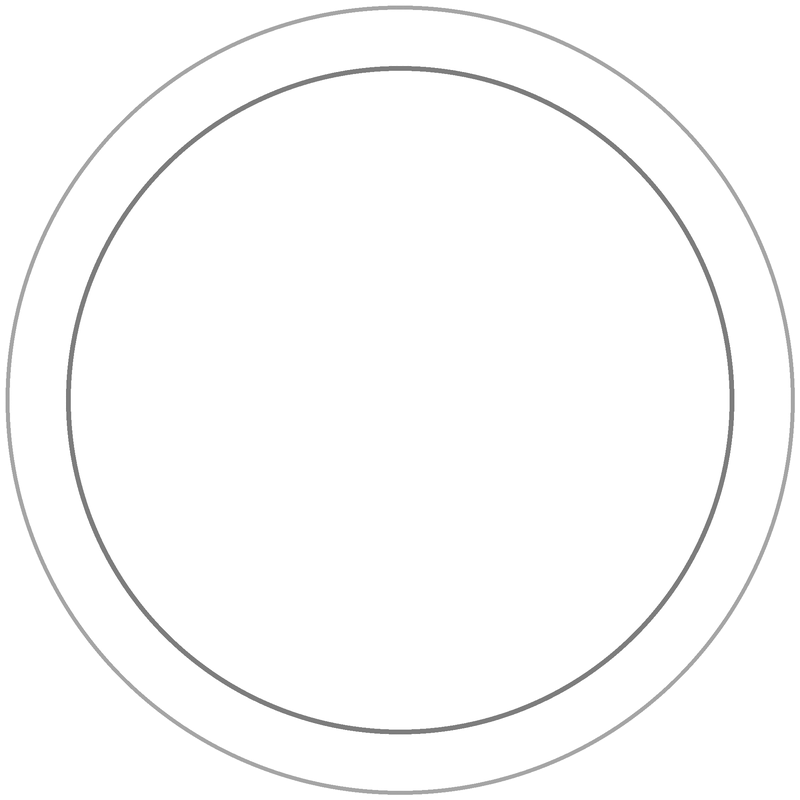
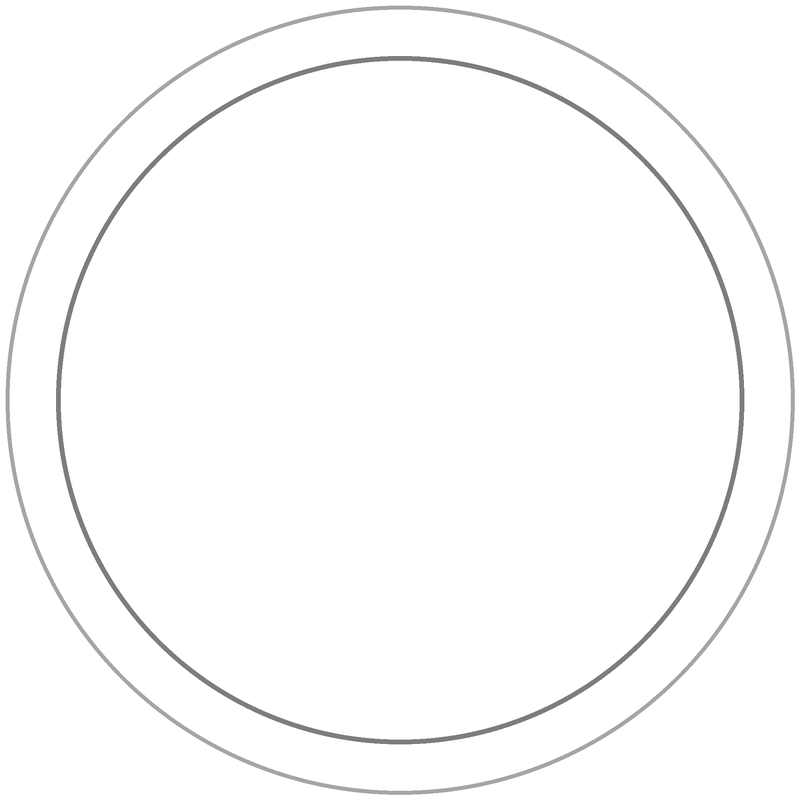
The dial's ring deeper and finer, as the boards have it

diff --git a/extensions/prayer-times/Sources/DialScene.swift b/extensions/prayer-times/Sources/DialScene.swift
@@ -35,8 +35,8 @@ enum DialScene {
         }
         let fajr = at(.fajr, 5), dhuhr = at(.dhuhr, 12), asr = at(.asr, 15), maghrib = at(.maghrib, 18), isha = at(.isha, 19.5)
         let stops: [(Double, (Int, Int, Int))] = [
-            (0, (34, 38, 112)), (fajr - 1, (36, 54, 142)), (fajr, (42, 92, 200)), ((fajr + dhuhr) / 2, (52, 112, 214)), (dhuhr - 0.8, (106, 128, 170)), (dhuhr, (222, 192, 118)), (dhuhr + 0.8, (116, 114, 128)),
-            (asr, (92, 96, 136)), ((asr + maghrib) / 2, (128, 104, 146)), (maghrib - 0.4, (206, 104, 172)), (maghrib, (222, 70, 164)), (isha, (112, 74, 200)), (isha + 2, (66, 52, 160)), (24, (34, 38, 112)),
+            (0, (28, 30, 96)), (fajr - 1, (28, 42, 128)), (fajr, (26, 74, 184)), ((fajr + dhuhr) / 2, (34, 96, 206)), (dhuhr - 0.8, (74, 96, 148)), (dhuhr, (214, 180, 100)), (dhuhr + 0.8, (88, 88, 104)),
+            (asr, (64, 68, 108)), ((asr + maghrib) / 2, (112, 78, 132)), (maghrib - 0.4, (196, 84, 162)), (maghrib, (226, 58, 160)), (isha, (98, 56, 196)), (isha + 2, (54, 40, 150)), (24, (28, 30, 96)),
         ]
         var last = stops[0]
         for next in stops.dropFirst() {
@@ -66,7 +66,7 @@ enum DialScene {
         let zone = day.zone
         let box = (cx * 2, cy * 2)
         var out: [Node] = []
-        let band = radius * 0.165
+        let band = radius * 0.14
         let inner = radius - band
         out.append(Node.image("art/dial-face-l.png", dark: "art/dial-face-d.png", fit: "fill").size(inner * 2, inner * 2).at(cx - inner, cy - inner))
         // The ring: the day's light, a little at a time.

diff --git a/extensions/prayer-times/Sources/PageOverview.swift b/extensions/prayer-times/Sources/PageOverview.swift
@@ -92,7 +92,7 @@ enum OverviewPage {
                 if let day = s.today {
                     Node.group { DialScene.nodes(cx: cx, cy: cy, radius: radius, labelRadius: radius + r.f(15) * 2.5, snapshot: s, day: day, focusAt: focusAt(s), big: true, label: r.f(15.5)) }.size(w, h)
                 }
-                Node.group { DialScene.middle(cx: cx, cy: cy, radius: radius * 0.835, focus: focus) }.size(w, h)
+                Node.group { DialScene.middle(cx: cx, cy: cy, radius: radius * 0.86, focus: focus) }.size(w, h)
             }
             .size(w, h).leftToRight().label(DialScene.spoken(s, focus: focus))
             Node.pill("dial", label: L("View today's prayer times"), x: w / 2 - r.u(150), y: h - r.u(68), w: r.u(300), h: r.u(46), symbol: "chevron.forward", size: r.f(16.5))

diff --git a/scripts/noor-art.py b/scripts/noor-art.py
@@ -76,11 +76,11 @@ face("dial-face-l", (255, 255, 255), (246, 242, 252), (206, 196, 232), 0.20)
 
 # The ring's grain and bevel: light and shade only, over whatever colours the day gives it.
 big = SIDE * 2
-ring = Image.new("RGBA", (big, big), (0, 0, 0, 0)); dr = ImageDraw.Draw(ring); c = big / 2; R, r = c - 2, c * 0.835
+ring = Image.new("RGBA", (big, big), (0, 0, 0, 0)); dr = ImageDraw.Draw(ring); c = big / 2; R, r = c - 2, c * 0.86
 for i in range(0, 720):
     a = math.radians(i / 2); ca, sa = math.cos(a), math.sin(a)
-    dr.line((c + r * ca, c + r * sa, c + R * ca, c + R * sa), fill=(255, 255, 255, 30 if i % 2 else 0), width=2)
-dr.ellipse((c - R, c - R, c + R, c + R), outline=(255, 255, 255, 120), width=5)
+    dr.line((c + r * ca, c + r * sa, c + R * ca, c + R * sa), fill=(255, 255, 255, 13 if i % 2 else 0), width=2)
+dr.ellipse((c - R, c - R, c + R, c + R), outline=(255, 255, 255, 70), width=4)
 dr.ellipse((c - R + 12, c - R + 12, c + R - 12, c + R - 12), outline=(0, 0, 0, 90), width=10)
 dr.ellipse((c - r, c - r, c + r, c + r), outline=(0, 0, 0, 130), width=12)
 dr.ellipse((c - r - 8, c - r - 8, c + r + 8, c + r + 8), outline=(255, 255, 255, 70), width=4)
